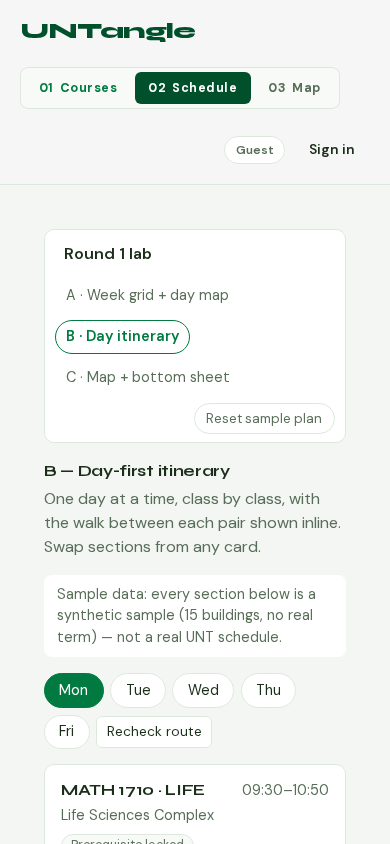
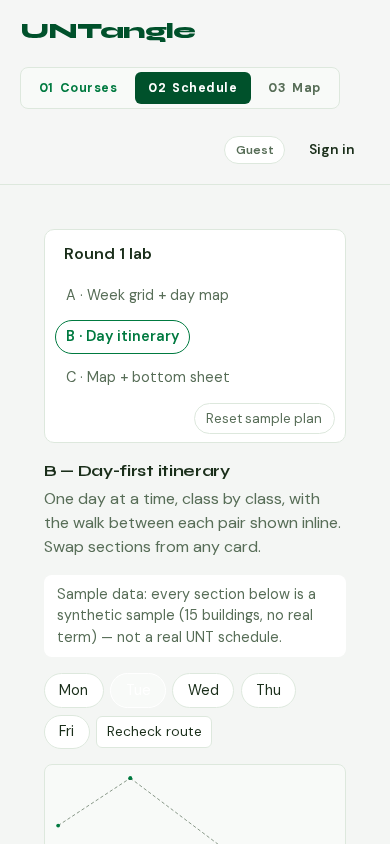
docs(lab): round-one comparison evidence, Tuesday-switched run
Scripted Tuesday conflict fix on B and C, Friday-free alternative on B,
six screenshots (1440x900 / 390x844), axe results, mechanical run
summary. Measured on next dev without an ORS key; day switched to
Tuesday before each measurement.

diff --git a/docs/lab/evidence/v3-run.md b/docs/lab/evidence/v3-run.md
@@ -1,0 +1,17 @@
+# Round-one comparison run (v3)
+
+Measured against next dev on port 3317, no ORS key (straight-line fallback), reduced-motion context. Day switched to Tuesday before every measurement.
+
+## Page-level measurements (Tue)
+
+| Direction | Viewport | Tue switch (ms) | /api/map/route calls | Longest-walk text | axe violations |
+|---|---|---|---|---|---|
+| a | desktop | 1145 | 0 | 0 | color-contrast(3), landmark-main-is-top-level(1), landmark-no-duplicate-main(1), landmark-unique(2) |
+| b | desktop | 2157 | 0 | 0 | color-contrast(1) |
+| c | desktop | 2238 | 0 | 0 | color-contrast(1) |
+| a | mobile | 1688 | 3 | 1 | color-contrast(3), landmark-main-is-top-level(1), landmark-no-duplicate-main(1), landmark-unique(2) |
+| b | mobile | 3823 | 2 | 1 | color-contrast(1), heading-order(1) |
+| c | mobile | 3296 | 2 | 1 | heading-order(1) |
+
+## Scripted tasks
+
